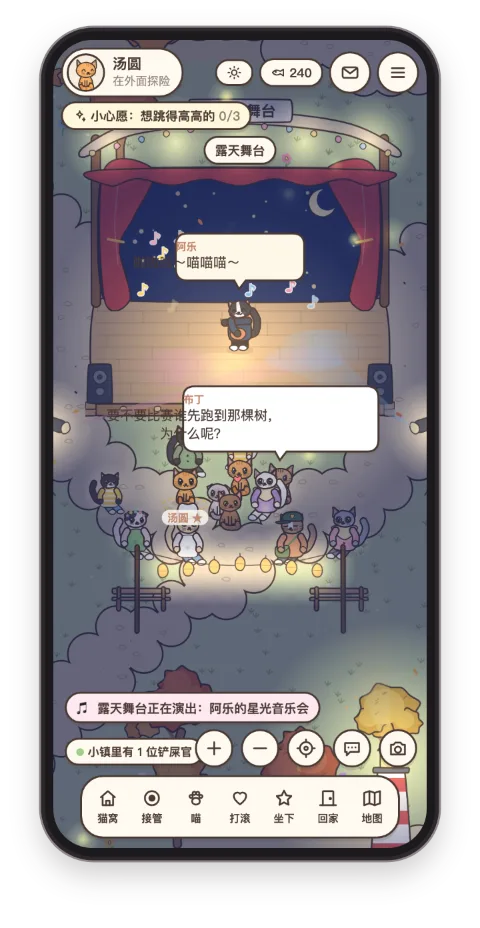
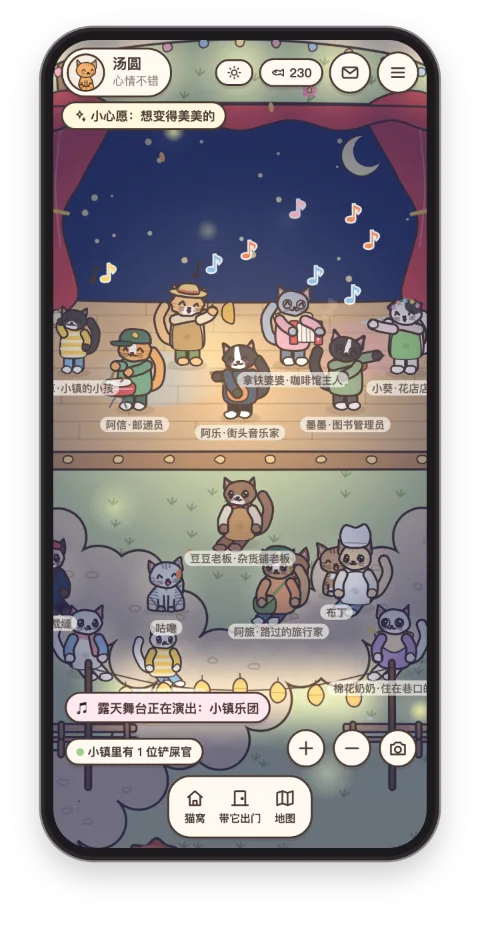
A town band and a group dance at the stage
- Residents can hold instruments: drums, violin, trumpet, accordion,
  tambourine and flute join 阿乐's guitar, each drawn and animated.
- A dance move set (sway with paws up, hop with arms wide, spin, a little
  shimmy) that everyone follows on one shared beat, so a troupe moves as one.
- New shows: 小镇乐团, seven residents playing together with a solo for
  each instrument when the host calls it, and 月光群舞, seven cats dancing
  in formation. The lantern dance uses the new moves; the choir gets a
  guitar and a tambourine.
- In a dance show's finale the audience gets up and dances, residents and
  watching cats alike.
- Only the host keeps to the programme; the others speak for themselves.
  Performers aren't pulled into chats with passing cats mid-show.

diff --git a/client/src/art/npc.ts b/client/src/art/npc.ts
@@ -43,7 +43,12 @@ export interface NpcPose {
   dir: 1 | -1;
   blink: boolean;
   talking: boolean;
+  beat?: number; // shared clock, so everyone dancing keeps the same step
 }
+
+const PLAYING = new Set(['music', 'drum', 'violin', 'trumpet', 'accordion', 'tambourine', 'flute']);
+const GOLD = '#e8b65e';
+const SILVER = '#d6dbe0';
 
 export function drawNpc(pen: Pen, g: CatGenes, outfit: NpcOutfit, p: NpcPose, kidScale = 1) {
   const ctx = pen.ctx;
@@ -53,12 +58,19 @@ export function drawNpc(pen: Pen, g: CatGenes, outfit: NpcOutfit, p: NpcPose, ki
   const t = p.t;
   const kid = outfit === 'kid';
   const s = kid ? 0.82 * kidScale : 1;
+  // dancing: four moves of four beats each, all on one shared beat
+  const dancing = p.anim === 'dance' && !p.moving;
+  const bt = (p.beat ?? t) * 1.8;
+  const move = dancing ? Math.floor(bt / 4) % 4 : -1;
+  const kb = bt % 1;
+  const spin = move === 2 ? (Math.floor(bt * 2) % 2 ? -1 : 1) : 1;
   ctx.save();
-  ctx.scale(p.dir * s, s);
+  if (dancing) ctx.translate(move === 0 ? Math.sin(bt * Math.PI) * 5 : move === 3 ? Math.sin(bt * Math.PI * 2) * 2 : 0, 0);
+  ctx.scale(p.dir * s * spin, s);
   const sitting = p.anim === 'sit' || p.anim === 'sleep' || p.anim === 'fish' || p.anim === 'knit' || p.anim === 'read' && !p.moving;
   const walk = p.moving;
   const bob = walk ? Math.abs(Math.sin(p.phase)) * 2.2 : Math.sin(t * 2) * 0.6;
-  const hop = p.anim === 'play' && !walk ? Math.max(0, Math.sin(t * 6)) * 8 : 0;
+  const hop = p.anim === 'play' && !walk ? Math.max(0, Math.sin(t * 6)) * 8 : dancing && move === 1 ? Math.abs(Math.sin(bt * Math.PI)) * 9 : p.anim === 'tambourine' ? Math.abs(Math.sin(t * 5)) * 3 : 0;
   const by = -bob - hop + (sitting ? 8 : 0);
 
   // shadow
@@ -172,6 +184,80 @@ export function drawNpc(pen: Pen, g: CatGenes, outfit: NpcOutfit, p: NpcPose, ki
     pen.line([6, by - 21, 22, by - 34], 3, '#a5754e');
     arm(-1, 18, by - 31);
     arm(1, 4 + Math.sin(t * 9) * 2, by - 18);
+  } else if (a === 'drum') {
+    // a snare drum on a stand, sticks taking turns
+    const hit = Math.sin((p.beat ?? t) * Math.PI * 2 * 1.8);
+    const dx = 13;
+    pen.line([dx - 7, 0, dx, by - 10, dx + 7, 0], 1.4, '#6f7480');
+    pen.shape([dx - 11, by - 20, dx + 11, by - 20, dx + 11, by - 10, dx - 11, by - 10], '#e0605e', 1.3);
+    pen.line([dx - 11, by - 15, dx + 11, by - 15], 1, rgba('#ffffff', 0.7));
+    pen.ellipse(dx, by - 20, 11, 3.4, '#fffaf0', 1.2);
+    const l = Math.max(0, hit) * 9, r = Math.max(0, -hit) * 9;
+    pen.line([dx - 8, by - 28 - l, dx - 2, by - 21 - l * 0.2], 1.8, '#a5754e');
+    pen.line([dx + 2, by - 28 - r, dx + 6, by - 21 - r * 0.2], 1.8, '#a5754e');
+    arm(-1, dx - 8, by - 28 - l);
+    arm(1, dx + 2, by - 28 - r);
+  } else if (a === 'violin') {
+    const bow = Math.sin(t * 4) * 7;
+    ctx.save();
+    ctx.translate(9, by - 33);
+    ctx.rotate(-0.35);
+    pen.shape([-7, -3, -3, -5, 0, -3, 3, -5, 7, -3, 7, 3, 3, 5, 0, 3, -3, 5, -7, 3], '#c27a4a', 1.2);
+    pen.line([7, 0, 22, 0], 2, '#5a4740');
+    ctx.restore();
+    pen.line([2 + bow, by - 22, 16 + bow, by - 40], 1.2, '#8a6440');
+    arm(-1, 25, by - 41);
+    arm(1, 4 + bow, by - 25);
+  } else if (a === 'trumpet') {
+    const fing = Math.sin(t * 8) > 0 ? 1 : 0;
+    pen.line([10, by - 41, 30, by - 39], 3.2, GOLD);
+    pen.shape([28, by - 44, 36, by - 47, 36, by - 31, 28, by - 34], GOLD, 1.2);
+    pen.line([16, by - 41, 16, by - 45 - fing], 1.2);
+    pen.line([20, by - 41, 20, by - 45 - (1 - fing)], 1.2);
+    arm(-1, 14, by - 38);
+    arm(1, 20, by - 40);
+  } else if (a === 'accordion') {
+    const open = 6 + Math.sin(t * 2.2) * 4;
+    const x0 = 4, x1 = x0 + 8 + open;
+    pen.poly([x0 - 6, by - 32, x0, by - 32, x0, by - 14, x0 - 6, by - 14], '#e0605e', 1.2);
+    pen.poly([x1, by - 32, x1 + 6, by - 32, x1 + 6, by - 14, x1, by - 14], '#e0605e', 1.2);
+    pen.poly([x0, by - 30, x1, by - 30, x1, by - 16, x0, by - 16], '#fffaf0', 1);
+    for (let i = 1; i < 4; i++) pen.line([x0 + ((x1 - x0) * i) / 4, by - 30, x0 + ((x1 - x0) * i) / 4, by - 16], 0.8, rgba(INK, 0.5));
+    for (let i = 0; i < 3; i++) pen.ellipse(x1 + 3, by - 28 + i * 5, 1, 1, '#fffaf0', 0, null);
+    arm(-1, x0 - 4, by - 24);
+    arm(1, x1 + 4, by - 24);
+  } else if (a === 'tambourine') {
+    const shake = Math.sin(t * 14) * 2;
+    arm(-1, -12, by - 20);
+    pen.ellipse(18 + shake, by - 48, 8, 8, '#f6e7c8', 1.4);
+    pen.ellipse(18 + shake, by - 48, 5.5, 5.5, null, 0.8, rgba(INK, 0.4));
+    for (let i = 0; i < 6; i++) {
+      const an = (i / 6) * Math.PI * 2 + t * 2;
+      pen.ellipse(18 + shake + Math.cos(an) * 8, by - 48 + Math.sin(an) * 8, 1.8, 1.8, GOLD, 0.6);
+    }
+    arm(1, 14 + shake, by - 44);
+  } else if (a === 'flute') {
+    pen.line([4, by - 43, 34, by - 38], 2.4, SILVER);
+    const f = Math.floor(t * 6) % 3;
+    for (let i = 0; i < 3; i++) pen.ellipse(18 + i * 4, by - 40.5 + i * 0.7, 0.9, 0.9, i === f ? INK : rgba(INK, 0.4), 0, null);
+    arm(-1, 14, by - 38);
+    arm(1, 26, by - 37);
+  } else if (dancing) {
+    // move 0: sway with paws up; 1: hop with arms wide; 2: spin; 3: paws on hips, a little shimmy
+    const w = Math.sin(kb * Math.PI * 2);
+    if (move === 0) {
+      arm(-1, -12 + w * 2, by - 46 - Math.max(0, w) * 4);
+      arm(1, 12 + w * 2, by - 46 - Math.max(0, -w) * 4);
+    } else if (move === 1) {
+      arm(-1, -18, by - 36);
+      arm(1, 18, by - 36);
+    } else if (move === 2) {
+      arm(-1, -6, by - 50);
+      arm(1, 6, by - 50);
+    } else {
+      arm(-1, -14, by - 22);
+      arm(1, 14, by - 22);
+    }
   } else if (a === 'read') {
     pen.shape([-8, by - 26, 0, by - 22, 8, by - 26, 8, by - 14, 0, by - 10, -8, by - 14], '#9ec3e6', 1.2);
     pen.line([0, by - 22, 0, by - 10], 1);
@@ -205,11 +291,11 @@ export function drawNpc(pen: Pen, g: CatGenes, outfit: NpcOutfit, p: NpcPose, ki
   pose.view = 'front';
   pose.turn = 0.25;
   pose.t = t;
-  pose.eyes = a === 'sleep' ? 'closed' : p.blink ? 'blink' : a === 'music' || a === 'play' ? 'happy' : a === 'read' ? 'half' : 'open';
-  pose.mouth = p.talking ? (Math.sin(t * 12) > 0 ? 'open' : 'w') : a === 'music' ? 'smile' : 'w';
+  pose.eyes = a === 'sleep' ? 'closed' : p.blink ? 'blink' : PLAYING.has(a) || a === 'play' || a === 'dance' ? 'happy' : a === 'read' ? 'half' : 'open';
+  pose.mouth = p.talking ? (Math.sin(t * 12) > 0 ? 'open' : 'w') : a === 'trumpet' || a === 'flute' ? 'o' : PLAYING.has(a) || a === 'dance' ? 'smile' : 'w';
   pose.lookY = a === 'read' || a === 'knit' ? 0.8 : a === 'gaze' ? -1 : 0;
   pose.blush = 0.4;
-  const headTilt = a === 'sleep' ? 0.25 + Math.sin(t) * 0.05 : a === 'music' ? Math.sin(t * 3) * 0.1 : a === 'gaze' ? -0.2 : 0;
+  const headTilt = a === 'sleep' ? 0.25 + Math.sin(t) * 0.05 : a === 'violin' ? 0.22 : PLAYING.has(a) ? Math.sin(t * 3) * 0.1 : dancing ? Math.sin(bt * Math.PI) * 0.15 : a === 'gaze' ? -0.2 : 0;
   ctx.save();
   ctx.translate(0, by - 46);
   ctx.rotate(headTilt);

diff --git a/shared/shows.ts b/shared/shows.ts
@@ -14,7 +14,12 @@ export interface ShowDef {
   lines: string[]; // said from the stage, in order, round and round
   cheers: string[]; // from the audience
   notes?: boolean; // music notes float up from the stage
+  solos?: Record<number, [string, string]>; // after line i, this performer plays a little solo (and makes this sound)
+  finale?: number; // from this far into the show, the audience gets up and dances too
 }
+
+/** Acts that play an instrument (notes come out of them). */
+export const INSTRUMENTS = new Set(['music', 'drum', 'violin', 'trumpet', 'accordion', 'tambourine', 'flute']);
 
 export const SHOW_GATHER = 19; // townsfolk start heading over
 export const SHOW_START = 19.5;
@@ -31,19 +36,44 @@ export const SHOWS: ShowDef[] = [
   },
   {
     id: 'chorus', name: '小镇合唱团', blurb: '阿花阿草和大家一起唱歌，偶尔唱错', host: 'npc_kid1',
-    cast: [{ id: 'npc_kid1', act: 'play' }, { id: 'npc_kid2', act: 'play' }, { id: 'npc_florist', act: 'stand' }, { id: 'npc_post', act: 'stand' }],
-    crowd: ['npc_music', 'npc_granny', 'npc_baker', 'npc_cafe', 'npc_store', 'npc_tailor', 'npc_travel'],
+    cast: [{ id: 'npc_kid1', act: 'play' }, { id: 'npc_kid2', act: 'tambourine' }, { id: 'npc_florist', act: 'stand' }, { id: 'npc_post', act: 'stand' }, { id: 'npc_music', act: 'music' }],
+    crowd: ['npc_granny', 'npc_baker', 'npc_cafe', 'npc_store', 'npc_tailor', 'npc_travel'],
     lines: ['一、二、三，开始唱！', '星星眨眼睛～猫猫眯眼睛～', '弟弟又唱错了！', '月亮弯弯，小船弯弯～', '这一段要大声唱！', '谢谢大家来听我们唱歌！'],
     cheers: ['唱得真好', '阿草加油！', '（轻轻跟着哼）', '好可爱呀', '再唱一遍！'],
     notes: true,
   },
   {
     id: 'dance', name: '灯笼舞会', blurb: '针针领舞，阿乐伴奏，大家转圈圈', host: 'npc_tailor',
-    cast: [{ id: 'npc_tailor', act: 'play' }, { id: 'npc_music', act: 'music' }, { id: 'npc_kid2', act: 'play' }, { id: 'npc_florist', act: 'play' }],
-    crowd: ['npc_baker', 'npc_cafe', 'npc_kid1', 'npc_granny', 'npc_store', 'npc_lib', 'npc_travel'],
+    cast: [{ id: 'npc_tailor', act: 'dance' }, { id: 'npc_kid2', act: 'dance' }, { id: 'npc_florist', act: 'dance' }, { id: 'npc_kid1', act: 'dance' }, { id: 'npc_music', act: 'music' }],
+    crowd: ['npc_baker', 'npc_cafe', 'npc_granny', 'npc_store', 'npc_lib', 'npc_travel'],
     lines: ['今晚的主题是：转圈圈！', '左边跳一跳，右边摇一摇～', '哼，跟上我的节奏', '所有猫猫一起来！', '尾巴要翘起来才优雅', '舞会结束啦，大家都很美'],
     cheers: ['转起来啦！', '针针好会跳', '我也想上去跳', '喵哈哈哈', '灯笼好漂亮'],
     notes: true,
+    finale: 0.75,
+  },
+  {
+    id: 'band', name: '小镇乐团', blurb: '七位居民各拿一样乐器，一起合奏', host: 'npc_music',
+    cast: [
+      { id: 'npc_music', act: 'music' }, { id: 'npc_post', act: 'drum' }, { id: 'npc_lib', act: 'violin' }, { id: 'npc_orchard', act: 'trumpet' },
+      { id: 'npc_cafe', act: 'accordion' }, { id: 'npc_kid2', act: 'tambourine' }, { id: 'npc_florist', act: 'flute' },
+    ],
+    crowd: ['npc_baker', 'npc_kid1', 'npc_granny', 'npc_store', 'npc_tailor', 'npc_travel', 'npc_onsen'],
+    lines: ['大家好，我们是小镇乐团！', '一、二、三、四——', '鼓手阿信，来一段！', '墨墨的小提琴', '果果爷爷，小号！', '拿铁婆婆的手风琴，好温柔', '阿草的铃鼓，还有小葵的长笛', '最后一首，所有乐器一起来！', '谢谢大家，晚安～'],
+    cheers: ['好热闹！', '阿信打鼓好帅', '我听出长笛了', '再来一首！', '喵——！', '（跟着拍爪爪）'],
+    notes: true,
+    solos: { 2: ['npc_post', '咚咚哒！咚咚哒！'], 3: ['npc_lib', '（拉了一段长长的、温柔的调子）'], 4: ['npc_orchard', '嘟——嘟嘟——！'], 5: ['npc_cafe', '（手风琴一拉一合，像在呼吸）'], 6: ['npc_kid2', '叮铃叮铃！'] },
+  },
+  {
+    id: 'troupe', name: '月光群舞', blurb: '七只猫排好队形跳一支舞，最后大家一起跳', host: 'npc_florist',
+    cast: [
+      { id: 'npc_florist', act: 'dance' }, { id: 'npc_kid1', act: 'dance' }, { id: 'npc_kid2', act: 'dance' }, { id: 'npc_baker', act: 'dance' },
+      { id: 'npc_travel', act: 'dance' }, { id: 'npc_post', act: 'dance' }, { id: 'npc_music', act: 'music' },
+    ],
+    crowd: ['npc_cafe', 'npc_granny', 'npc_lib', 'npc_store', 'npc_tailor', 'npc_orchard', 'npc_onsen'],
+    lines: ['音乐起——', '向左跳一跳！', '举起爪爪～', '转圈圈——', '排成一排，一起摇尾巴', '摆个造型！', '台下的大家也一起来！', '谢谢大家，今晚月亮真亮'],
+    cheers: ['好整齐！', '阿草跳反了哈哈', '麦麦也会跳舞！', '我也要跳！', '喵哈哈哈', '好看好看'],
+    notes: true,
+    finale: 0.7,
   },
   {
     id: 'story', name: '星空故事会', blurb: '墨墨和阿旅在舞台上讲故事', host: 'npc_lib',
@@ -65,7 +95,8 @@ export const SHOW_MAP: Record<string, ShowDef> = Object.fromEntries(SHOWS.map((s
 
 /** The stage, in tiles: performers stand on it, the audience sits on the lawn in front. */
 export const STAGE = { x: 112, back: 50.4, front: 54.4 };
-export const STAGE_SPOTS: [number, number][] = [[112, 52.4], [109.6, 52.8], [114.4, 52.8], [110.8, 53.7], [113.2, 53.7]];
+// host in the middle at the front, then out to the sides and a back row
+export const STAGE_SPOTS: [number, number][] = [[112, 53.5], [109.4, 53.3], [114.6, 53.3], [110.7, 52.2], [113.3, 52.2], [107.9, 52.4], [116.1, 52.4]];
 export const AUDIENCE_SPOTS: [number, number][] = (() => {
   const out: [number, number][] = [];
   for (const [y, n] of [[56.6, 5], [58.2, 6], [59.8, 5]] as [number, number][])
@@ -102,6 +133,6 @@ export function showRole(npc: string, now: ShowNow | null): { stage: boolean; ac
   const c = s.cast.findIndex((x) => x.id === npc);
   if (c >= 0) return { stage: true, act: s.cast[c].act, spot: STAGE_SPOTS[c % STAGE_SPOTS.length] };
   const a = s.crowd.indexOf(npc);
-  if (a >= 0) return { stage: false, act: 'sit', spot: AUDIENCE_SPOTS[(a * 3 + now.day) % AUDIENCE_SPOTS.length] };
+  if (a >= 0) return { stage: false, act: now.live && s.finale !== undefined && now.progress >= s.finale ? 'dance' : 'sit', spot: AUDIENCE_SPOTS[(a * 3 + now.day) % AUDIENCE_SPOTS.length] };
   return null;
 }

diff --git a/server/src/world.ts b/server/src/world.ts
@@ -5,7 +5,7 @@ import type { CatRecord } from '../../shared/types';
 import { WORLD_VERSION, type EntState, type ServerMsg, type ClientMsg } from '../../shared/protocol';
 import { getWorld, getRooms, roomAt, roomById, planRoute, POIS, POI_MAP, TILE, HOME_SPAWN, walkableAt, zoneAt, poiPoint, ZONE_NAME, type Poi, type Leg, type Room } from '../../shared/world';
 import { roomOpen } from '../../shared/rooms';
-import { showAt, showRole, STAGE, type ShowNow } from '../../shared/shows';
+import { showAt, showRole, STAGE, INSTRUMENTS, type ShowNow } from '../../shared/shows';
 import { NPCS, NPC_MAP, scheduleAt, walkBusy, type NpcDef } from '../../shared/npcs';
 import { clockAt, weatherAt } from '../../shared/time';
 import { ITEMS, type ItemDef } from '../../shared/items';
@@ -59,6 +59,7 @@ interface Ent {
   companion?: Companion;
   busyUntil?: number; // doing a resident's little thing together
   nextGreet?: number;
+  nextNote?: number;
 }
 
 interface Companion {
@@ -804,6 +805,7 @@ function tickCat(e: Ent, now: number) {
   for (const o of ents.values()) {
     if (o === e || o.mode === 'meet' || o.mode === 'walk' || o.controlledBy) continue;
     if (o.companion?.leader === e.st.id || e.companion?.leader === o.st.id) continue;
+    if (o.npc && showRole(o.npc.id, tonight)) continue; // busy with tonight's show
     if (Math.hypot(o.st.x - e.st.x, o.st.y - e.st.y) > 110) continue;
     const key = pairKey(e.st.id, o.st.id);
     if ((meetCooldown.get(key) ?? 0) > now) continue;
@@ -936,16 +938,35 @@ function tickShowNpc(n: NpcDef, e: Ent | undefined, role: NonNullable<ReturnType
     e.st.dir = dir;
     setAct(e, role.act, 60_000, now);
   }
-  if (!tonight!.live || !clients.size || now < e.nextSay) return;
+  if (!tonight!.live || !clients.size) return;
+  // whoever holds an instrument sends notes up now and then
+  if (role.stage && INSTRUMENTS.has(role.act) && now > (e.nextNote ?? 0)) {
+    e.nextNote = now + 5000 + Math.random() * 6000;
+    broadcastNear({ t: 'emote', id: e.st.id, kind: 'note' }, e.st.x, e.st.y);
+  }
+  if (now < e.nextSay) return;
   if (role.stage) {
     const host = n.id === show.host;
     e.nextSay = now + (host ? 26_000 : 70_000) + Math.random() * 18_000;
     const i = showLine.get(n.id) ?? 0;
     showLine.set(n.id, i + 1);
     // the host keeps to the programme, with something of its own every other time
-    const line = host && i % 2 === 0 ? show.lines[(i / 2) % show.lines.length] : npcLine(personaOf(n), `在露天舞台的《${show.name}》上（${show.blurb}），对台下的观众说一句`, show.lines);
+    const li = (i / 2) % show.lines.length;
+    // the programme is the host's; everyone else on stage speaks for themselves
+    const line = host && i % 2 === 0 ? show.lines[li] : npcLine(personaOf(n), `在露天舞台的《${show.name}》上（${show.blurb}）${host ? '主持' : '表演'}，对台下的观众说一句`, host ? show.lines : n.lines);
     say(e, line);
     if (show.notes) broadcastNear({ t: 'emote', id: e.st.id, kind: 'note' }, e.st.x, e.st.y);
+    // a solo the host just called for
+    const solo = host && i % 2 === 0 ? show.solos?.[li] : undefined;
+    const player = solo && ents.get(solo[0]);
+    if (player) {
+      player.nextSay = Math.max(player.nextSay, Date.now() + 9000);
+      setTimeout(() => {
+        if (!ents.has(player.st.id)) return;
+        say(player, solo![1]);
+        for (let k = 0; k < 3; k++) setTimeout(() => broadcastNear({ t: 'emote', id: player.st.id, kind: k === 1 ? 'star' : 'note' }, player.st.x, player.st.y), k * 900);
+      }, 2600);
+    }
   } else {
     e.nextSay = now + 45_000 + Math.random() * 60_000;
     if (Math.random() < 0.55) say(e, show.cheers[Math.floor(Math.random() * show.cheers.length)], true);
@@ -969,9 +990,16 @@ function tickShow(now: number) {
   if (!live || now - lastShowCheck < 5000) return;
   lastShowCheck = now;
   const [cx, cy] = [STAGE.x * TILE, (STAGE.front + 3.6) * TILE];
+  const finale = show.finale !== undefined && tonight.progress >= show.finale;
   for (const e of ents.values()) {
     const c = e.cat;
-    if (!c || c.ownerId === 'town' || Math.hypot(e.st.x - cx, (e.st.y - cy) * 1.3) > 6 * TILE) continue;
+    if (!c || Math.hypot(e.st.x - cx, (e.st.y - cy) * 1.3) > 6 * TILE) continue;
+    // when the dancers call everyone up, the cats in the audience join in
+    if (finale && e.mode === 'idle' && !e.controlledBy && !e.companion && Math.random() < 0.5) {
+      e.st.dir = Math.random() < 0.5 ? 1 : -1;
+      setAct(e, ['pounce', 'belly', 'stretch', 'sit_happy', 'pounce'][Math.floor(Math.random() * 5)], 4500, now);
+    }
+    if (c.ownerId === 'town') continue;
     const k = `show:${day}:${c.id}`;
     if (db.kvGet(k)) continue;
     db.kvSet(k, 1);

diff --git a/client/home.html b/client/home.html
@@ -156,12 +156,12 @@
           <div class="txt">
             <h3 class="px" data-px="14">店都能进去，居民会记得你</h3>
             <p>面包房、咖啡馆、图书馆、杂货铺、邮局、花店和裁缝铺都能走进去坐坐，店主在柜台后面忙活。<b>16 位猫猫居民</b>按自己的作息过日子，每一位都有一件能和你的猫一起做的小事：尝口面包、听个故事、帮忙送信、泡个温泉……</p>
-            <p>常来常往，它们会记得你的猫，路过时叫它的名字；不忙的时候，还会陪它一起逛逛。有些晚上，河东的露天舞台还有音乐会、合唱和舞会。</p>
+            <p>常来常往，它们会记得你的猫，路过时叫它的名字；不忙的时候，还会陪它一起逛逛。有些晚上，河东的露天舞台还有乐队合奏、群舞、合唱和故事会。</p>
           </div>
           <div class="phones">
             <figure><img src="/site/img/phone-shop.webp" width="480" height="928" loading="lazy" alt="面包房里" /><figcaption>走进店里，尝口面包</figcaption></figure>
             <figure><img src="/site/img/phone-walk.webp" width="480" height="928" loading="lazy" alt="一起散步" /><figcaption>阿花陪它一起逛逛</figcaption></figure>
-            <figure><img src="/site/img/phone-stage.webp" width="480" height="928" loading="lazy" alt="露天舞台" /><figcaption>晚上的露天舞台</figcaption></figure>
+            <figure><img src="/site/img/phone-stage.webp" width="480" height="928" loading="lazy" alt="露天舞台上的小镇乐团" /><figcaption>晚上的露天舞台：小镇乐团</figcaption></figure>
           </div>
         </div>
 

diff --git a/client/src/game/world.ts b/client/src/game/world.ts
@@ -1125,7 +1125,7 @@ export class WorldScene implements Scene {
         ctx.save();
         ctx.translate(e.x, e.y);
         if (T > e.blinkAt + 0.14) e.blinkAt = T + 2 + Math.random() * 4;
-        drawNpc(pen, npc.genes, npc.outfit, { anim: e.anim, t: T + e.st.genes.seed, phase: e.phase, moving: e.moving, dir: e.dir, blink: T > e.blinkAt, talking: !!e.bubble && T - e.bubble.start < Math.min(3, e.bubble.until - e.bubble.start) });
+        drawNpc(pen, npc.genes, npc.outfit, { anim: e.anim, t: T + e.st.genes.seed, beat: T, phase: e.phase, moving: e.moving, dir: e.dir, blink: T > e.blinkAt, talking: !!e.bubble && T - e.bubble.start < Math.min(3, e.bubble.until - e.bubble.start) });
         ctx.restore();
       }
     }

diff --git a/README.md b/README.md
@@ -144,7 +144,7 @@
 
 **16 位猫猫居民按自己的作息过日子**：面包房老板娘清晨揉面，邮递员阿信挨家送信，棉花奶奶在巷口织毛线，阿乐傍晚在喷泉边弹琴，果果爷爷守着果园，汤汤泡在温泉边，旅行家阿旅在营地讲远方，深夜还有阿月的热羊奶摊。每位居民都有一件能和你的猫一起做的小事：尝一口刚出炉的面包、听墨墨讲个故事、帮阿信送一封信、泡个温泉……常来常往，它们会记得你的猫，路过时叫它的名字。
 
-**有些晚上，河东草坪上的露天舞台会有演出**：阿乐的星光音乐会、小镇合唱团、灯笼舞会、星空故事会、阿旅的魔术秀，轮流上演。居民们早早坐到台下，音符从台上飘起来；带你的猫去看一场，会记进日记，还能拿到一张票根。
+**有些晚上，河东草坪上的露天舞台会有演出**：七位居民各拿一样乐器合奏的小镇乐团（阿信打鼓、墨墨拉小提琴、果果爷爷吹小号、拿铁婆婆拉手风琴……），踩着同一个节拍跳舞的月光群舞，还有阿乐的星光音乐会、小镇合唱团、灯笼舞会、星空故事会和阿旅的魔术秀，轮流上演。居民们早早坐到台下，音符从台上飘起来，跳舞的晚上，最后台下的大家也会站起来一起跳。带你的猫去看一场，会记进日记，还能拿到一张票根。
 
 **也可以请居民陪它一起逛。** 不忙的居民和小镇的猫会跟在它身边，一路走一路聊，到了该上班的时候再笑着道别。所有玩家的猫都在同一个小镇里，会在路上碰鼻子、交朋友。
 
@@ -159,7 +159,7 @@
 <tr>
 <td width="33%" align="center"><img src="docs/images/phone-shop.png" alt="面包房里，麦麦递来刚出炉的面包" width="100%"><br><sub><b>走进店里</b><br>麦麦掰了一小块刚出炉的鱼形面包</sub></td>
 <td width="33%" align="center"><img src="docs/images/phone-walk.png" alt="小镇的小孩阿花陪着汤圆散步" width="100%"><br><sub><b>一起逛逛</b><br>阿花跟在旁边，一路走一路聊</sub></td>
-<td width="33%" align="center"><img src="docs/images/phone-stage.png" alt="夜里的露天舞台，阿乐在台上弹琴，居民们坐在草坪上听" width="100%"><br><sub><b>露天舞台</b><br>有些晚上，阿乐会在这里开音乐会</sub></td>
+<td width="33%" align="center"><img src="docs/images/phone-stage.png" alt="露天舞台上的小镇乐团：吉他、鼓、小号、手风琴、小提琴、长笛和铃鼓一起合奏" width="100%"><br><sub><b>露天舞台</b><br>小镇乐团：七位居民一起合奏</sub></td>
 </tr>
 </table>
 
